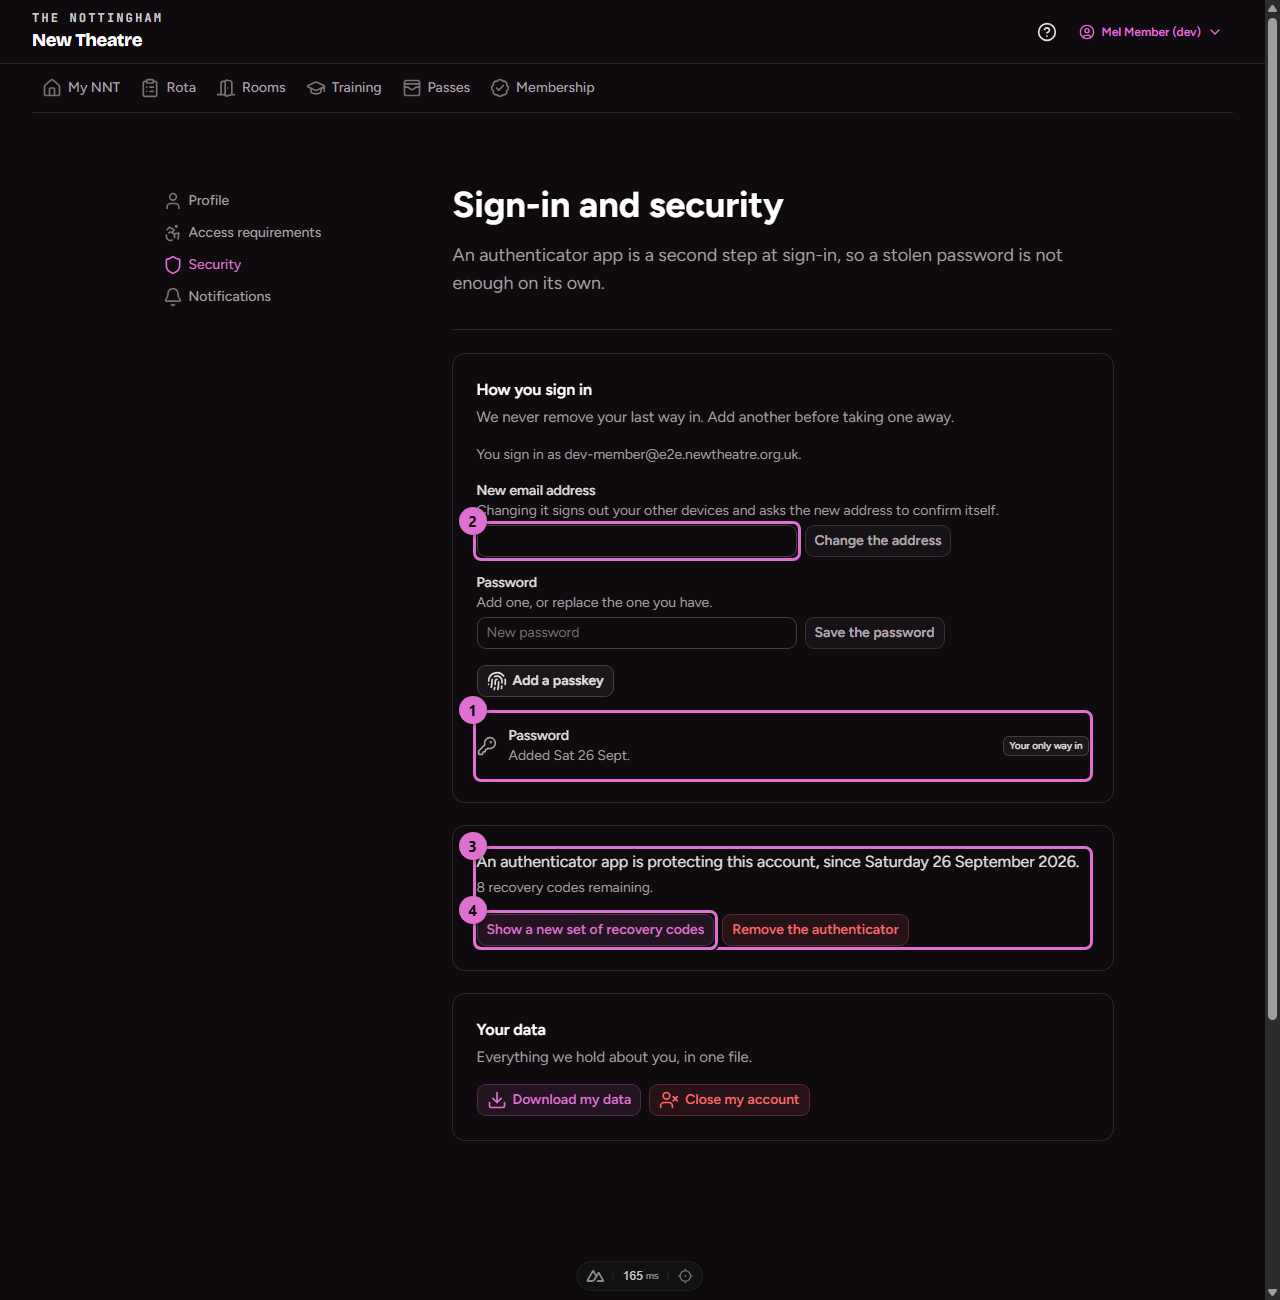
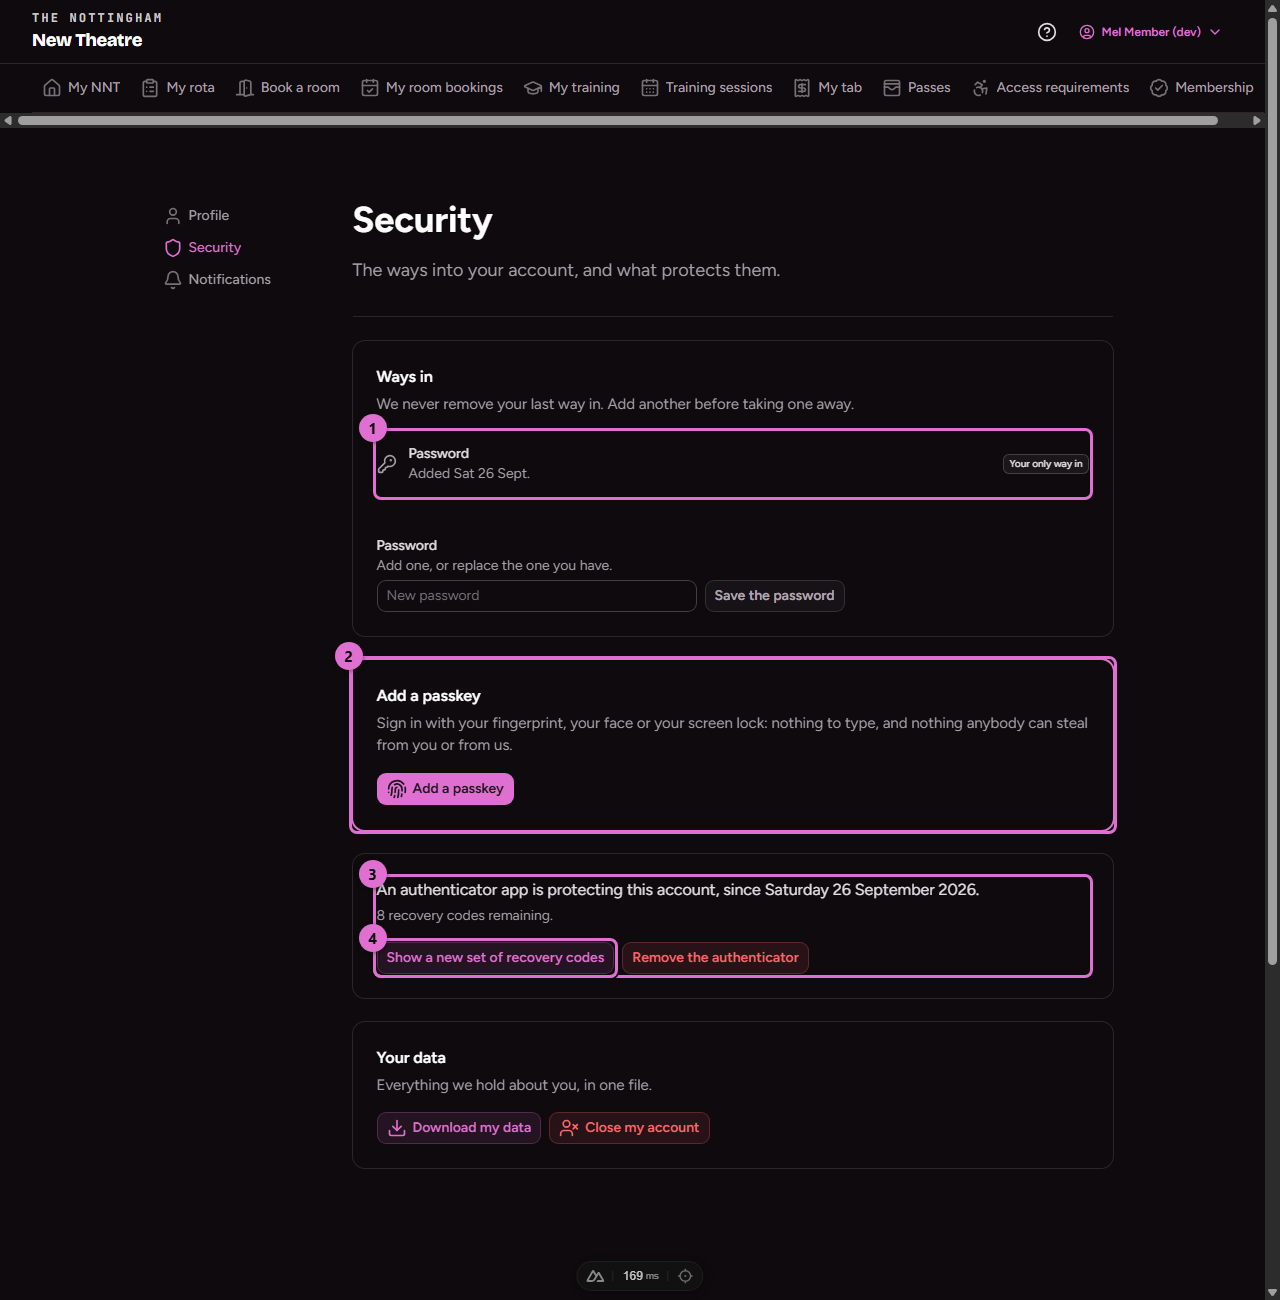
Draw the password and passkey after the ways in, and retake the security picture (issue 1344)

diff --git a/app/components/SignInMethods.vue b/app/components/SignInMethods.vue
@@ -217,60 +217,59 @@ onMounted(load)
       </li>
     </ul>
 
-    <template #footer>
-      <div class="space-y-4">
-        <UFormField
-          v-if="passwordRefusal === null"
-          label="Password"
-          name="password"
-          description="Add one, or replace the one you have."
-        >
-          <div class="flex flex-wrap items-center gap-2">
-            <UInput
-              v-model="wantedPassword"
-              type="password"
-              placeholder="New password"
-              class="w-full sm:w-80"
-              data-test="new-password"
-            />
-            <UButton
-              color="neutral"
-              variant="subtle"
-              :disabled="!wantedPassword"
-              :loading="settingPassword"
-              data-test="set-password"
-              @click="setPassword"
-            >
-              Save the password
-            </UButton>
-          </div>
-        </UFormField>
-        <p
-          v-else
-          class="text-sm text-muted"
-        >
-          Theatre addresses sign in with Google and cannot hold a password.
-        </p>
+    <!-- In the default slot, not #footer: a UPageCard footer draws above it, putting the forms before the ways in. -->
+    <div class="mt-6 space-y-4">
+      <UFormField
+        v-if="passwordRefusal === null"
+        label="Password"
+        name="password"
+        description="Add one, or replace the one you have."
+      >
+        <div class="flex flex-wrap items-center gap-2">
+          <UInput
+            v-model="wantedPassword"
+            type="password"
+            placeholder="New password"
+            class="w-full sm:w-80"
+            data-test="new-password"
+          />
+          <UButton
+            color="neutral"
+            variant="subtle"
+            :disabled="!wantedPassword"
+            :loading="settingPassword"
+            data-test="set-password"
+            @click="setPassword"
+          >
+            Save the password
+          </UButton>
+        </div>
+      </UFormField>
+      <p
+        v-else
+        class="text-sm text-muted"
+      >
+        Theatre addresses sign in with Google and cannot hold a password.
+      </p>
 
-        <UButton
-          v-if="isSupported && authenticatorFirst !== null && !passkeyNext && !loading"
-          icon="i-lucide-fingerprint"
-          color="neutral"
-          variant="subtle"
-          :loading="enrolling"
-          data-test="add-passkey"
-          @click="addPasskey"
-        >
-          Add a passkey
-        </UButton>
-        <p
-          v-else-if="!isSupported"
-          class="text-sm text-muted"
-        >
-          This browser cannot hold a passkey.
-        </p>
-      </div>
-    </template>
+      <UButton
+        v-if="isSupported && authenticatorFirst !== null && !passkeyNext && !loading"
+        icon="i-lucide-fingerprint"
+        color="neutral"
+        variant="subtle"
+        :loading="enrolling"
+        data-test="add-passkey"
+        @click="addPasskey"
+      >
+        Add a passkey
+      </UButton>
+      <p
+        v-else-if="!isSupported"
+        class="text-sm text-muted"
+      >
+        This browser cannot hold a passkey.
+      </p>
+    </div>
   </UPageCard>
 
   <UPageCard
